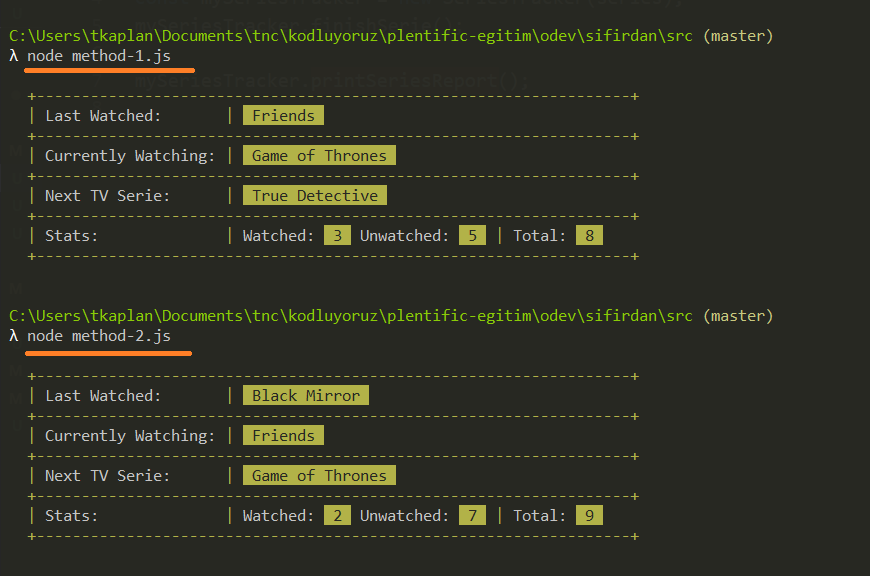
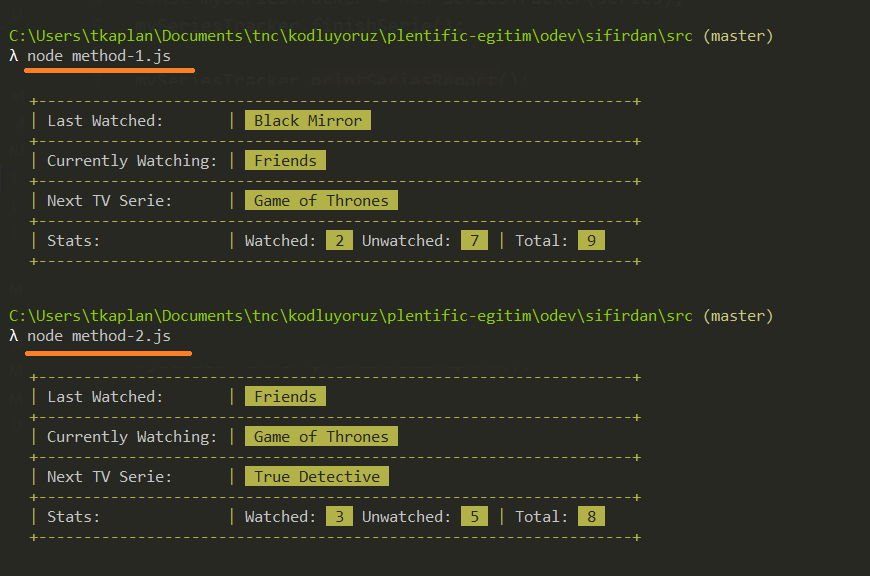
update readme + swap method files

diff --git a/src/method-1.js b/src/method-1.js
@@ -2,6 +2,12 @@ import { SeriesTracker } from "./SeriesTracker.js";
 import { series } from "./data.js";
 
 const mySeriesTracker = new SeriesTracker(series);
-mySeriesTracker.finishSerie();
+const newSerie = {
+  id: "9",
+  name: "Lost",
+  genre: "Adventure",
+  directorId: "4",
+};
+mySeriesTracker.add(newSerie);
 
 mySeriesTracker.printSeriesReport();

diff --git a/src/method-2.js b/src/method-2.js
@@ -2,12 +2,6 @@ import { SeriesTracker } from "./SeriesTracker.js";
 import { series } from "./data.js";
 
 const mySeriesTracker = new SeriesTracker(series);
-const newSerie = {
-  id: "9",
-  name: "Lost",
-  genre: "Adventure",
-  directorId: "4",
-};
-mySeriesTracker.add(newSerie);
+mySeriesTracker.finishSerie();
 
 mySeriesTracker.printSeriesReport();

diff --git a/README.md b/README.md
@@ -2,19 +2,33 @@
 
 Projeyi forklayıp `SeriesTracker.js` dosyasındaki değişiklikleri yaptıktan sonra pushlamanız yeterli. Diğer dosyalarda değişiklik yapılması gerekli değil.
 
-`SeriesTracker.js` dosyası içindeki yorum satırlarına göre SeriesTracker fonksiyonunu çalışır hale getirerek konsolda ekran görüntüsündeki değerlerin çıkmasını sağlayın.
-methodları çalıştırmak için komutlarını çalıştırın.
-`node method-1.js`
-`node method-2.js`
-Projeyi kopyaladıktan sonra `npm install` komutu ile yükleyip `npm run test` komutu ile testleri çalıştırabilirsini.
-`SeriesTracker.test.js` dosyasını okuyarak istenenleri daha detaylı görebilirsiniz.
+### Kurulum
+
+Projeyi kopyaladıktan sonra `npm install` komutu ile yükleyip `npm run test` komutu ile testleri çalıştırabilirsiniz.
+
+### Çalışma Şekli
 
 Uygulama, listenize aldığınız dizilerin izlenmiş ya da o anda izleniyor olma durumlarını saklıyor.
+Aynı anda tek dizi izlenebiliyor.
+`mySeriesTracker.add()` methodu ile listeye yeni bir dizi eklenir.
+`mySeriesTracker.finishSerie()` methodu ile mevcut dizi izlenmiş olarak kaydedilip sıradaki dizi izlenmeye başlanır.
+`mySeriesTracker.printSeriesReport()` methodu konsola dizi izleme raporunu gösterir. Bu rapor:
+son izlenen, şu anda izlenen ve sıradaki dizinin isimleri ile listedeki toplam, izlenen ve henüz izlenmemiş dizilerin sayısını konsola basar.
 
-Aynı anda tek dizi izlenebiliyor. `mySeriesTracker.finishSerie()` ile mevcut dizi izlenmiş olarak kaydedilip sıradaki dizi izlenmeye başlanıyor.
+### Görev
 
-Konsol Çıktısı:
+`SeriesTracker.js` dosyası içindeki yorum satırlarına göre SeriesTracker fonksiyonunu çalışır hale getirerek konsolda aşağıdaki ekran görüntülerindeki değerlerin çıkmasını sağlayın.
+Bunu yaparken `npm run test` komutu ile testleri çalıştırarak tüm testlerin geçtiğinden emin olun.
+Not: `SeriesTracker.test.js` dosyasını okuyarak istenenleri daha detaylı görebilirsiniz.
+
+Methodları çalıştırmak için şu komutları çalıştırın:
+`node method-1.js` (`mySeriesTracker.add()` methodunu çalıştırır)
+`node method-2.js` (`mySeriesTracker.finishSerie()` methodunu çalıştırır)
+
+### Ekran Görüntüleri
+
+Beklenen Konsol Çıktıları:
 ![img](./expected-console-output.png)
 
-Codesandbox Başarılı Test Sonuçları Ekran görüntüsü
+Beklenen Test Sonuçları:
 ![img](./ss-tests-passed.png)
